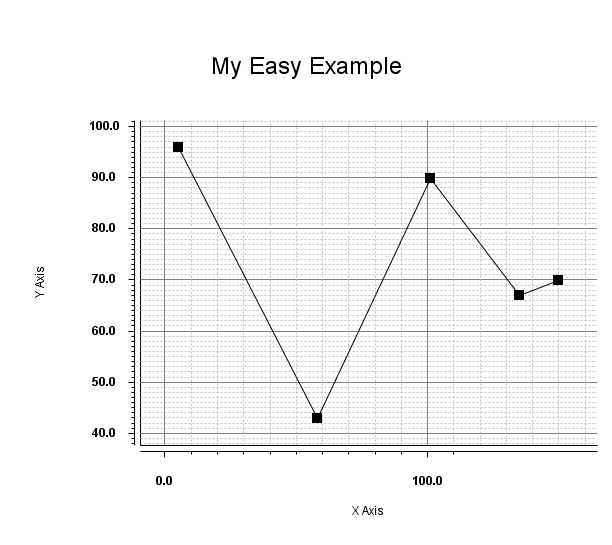
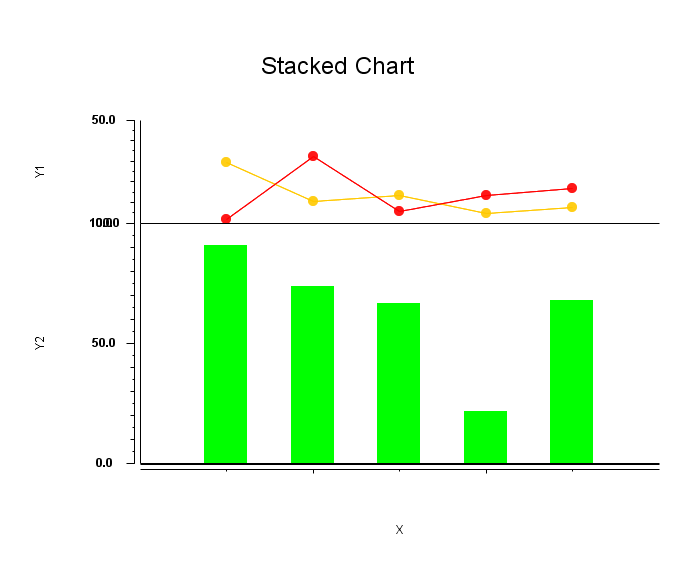
test stacked

diff --git a/src/test/java/com/bluewalrus/main/test/stacked/TestStackedChart3.java b/src/test/java/com/bluewalrus/main/test/stacked/TestStackedChart3.java
@@ -17,6 +17,8 @@ import com.bluewalrus.chart.draw.GridLine;
 import com.bluewalrus.chart.draw.point.UIPointCandleStick;
 import com.bluewalrus.main.test.ChartTester;
 import com.bluewalrus.main.test.TestDataXY_Scatter;
+import com.bluewalrus.main.test.bar.TestDataBar_2_Simple_negative;
+import com.bluewalrus.main.test.bar.TestDataBar_5_PosNegColor;
 import com.bluewalrus.main.test.math.TestDataXY_SineCurve;
 import com.bluewalrus.scaling.LinearNumericalAxisScalingX;
 import com.bluewalrus.scaling.LinearNumericalAxisScalingY;
@@ -27,10 +29,10 @@ public class TestStackedChart3 extends ChartTester {
 		//xAxis needs to be shared
 		XAxis xAxis = new XAxis(new LinearNumericalAxisScalingX(), "X");
 		xAxis.axisScaling.setMinValue(0);
-		xAxis.axisScaling.setMaxValue(400);
+		xAxis.axisScaling.setMaxValue(100);
 		
 		ArrayList<XYChart> charts = new ArrayList<XYChart>();
-		charts.add(getCandleChart(xAxis));
+		charts.add(getTopChart(xAxis));
 		charts.add(getScatterChart(xAxis));
 		charts.add(getBarChart(xAxis));
 		
@@ -45,7 +47,14 @@ public class TestStackedChart3 extends ChartTester {
 		
 		return stackedXYChart;
 	}
-	
+	public XYChart getTopChart(XAxis xAxis) {
+		
+		
+		XYChart xy = (XYChart)new TestDataBar_5_PosNegColor().getChart();
+		xy.xAxis = xAxis;
+		return xy;
+
+	}
 	
 	public XYChart getBarChart(XAxis xAxis) {
 		

diff --git a/src/test/java/com/bluewalrus/main/GenerateShowcase.java b/src/test/java/com/bluewalrus/main/GenerateShowcase.java
@@ -1,13 +1,9 @@
 package com.bluewalrus.main;
 
-import java.util.ArrayList;
-
-import com.bluewalrus.chart.Chart;
-import com.bluewalrus.chart.XYChart;
-import com.bluewalrus.main.test.TestDataXY_Boxplot;
 import com.bluewalrus.main.test.bar.TestDataBar_1_Simple;
 import com.bluewalrus.main.test.bar.TestDataBar_4_GradientColor;
-import com.bluewalrus.main.test.bar.TestDataBar_5_PosNegColor;
+import com.bluewalrus.main.test.stacked.TestStackedChart2;
+import com.bluewalrus.main.test.stacked.TestStackedChart3;
 
 public class GenerateShowcase {
 
@@ -19,10 +15,17 @@ public class GenerateShowcase {
     	
 //    	new TestDataXY_Boxplot().createImageAndTextFile();
     	new TestDataBar_1_Simple().createImageAndTextFile();
-//    	new TestDataBar_4_GradientColor().createImageAndTextFile();
+    	new TestDataBar_4_GradientColor().createImageAndTextFile();
 //    	new TestDataBar_5_PosNegColor().createImageAndTextFile();
 //    	new TestDataBar_.createImageAndTextFile();
 //    	new TestDataBar_1_Simple().createImageAndTextFile();
+
+    	
+    	//these two stacked
+    	new TestStackedChart2().createImageAndTextFile();
+    	new TestStackedChart3().createImageAndTextFile();
+
+    	
 
     }
 

diff --git a/src/main/java/com/bluewalrus/chart/draw/point/UIPointMultiBarSideBySide.java b/src/main/java/com/bluewalrus/chart/draw/point/UIPointMultiBarSideBySide.java
@@ -22,6 +22,12 @@ public class UIPointMultiBarSideBySide extends UIPointAbstractMultiBar{
 	
 	public UIPointMultiBarSideBySide() {
 		super(Color.BLACK); //unimportant, never used.
+//		barWidthPercent = 90;
+	}
+
+	public UIPointMultiBarSideBySide(int totalBarWidthPercent) {
+		super(Color.BLACK); //unimportant, never used.
+		barWidthPercent = totalBarWidthPercent;
 	}
 
 	public void draw(Graphics2D g, Point point, Point lastPoint, DataPoint dataPoint, XYFactor xyFactor, XYChart chart, int pixBtnFirst2Pts) {
@@ -35,7 +41,17 @@ public class UIPointMultiBarSideBySide extends UIPointAbstractMultiBar{
 
         shift = 0;
         
+        int distanceBetweenXPoints = 40;
+        if (lastPoint != null) {
+            distanceBetweenXPoints = lastPoint.x - point.x;
+        	
+        }
+        
+        
         int totalWidthOfBars = multiBarDataPoint.bars.size() * pointDiffWidth;
+        
+        totalWidthOfBars = distanceBetweenXPoints;
+        
         
     	/**
     	 * Draw each of the (multi) bars

diff --git a/src/test/java/com/bluewalrus/main/test/math/TestDataXY_SineCurve.java b/src/test/java/com/bluewalrus/main/test/math/TestDataXY_SineCurve.java
@@ -33,14 +33,14 @@ public class TestDataXY_SineCurve extends ChartTester {
 		
 		for (int x = -170; x <= 170; x++) {
 			
-			values.add(new DataPoint(x, (int) (50 * f((x / 100.0) * 2 * Math.PI))));
+			values.add(new DataPoint(x, (int) (50 * sin((x / 100.0) * 2 * Math.PI))));
 		}
 
 		ArrayList<DataPoint> values3 = new ArrayList<DataPoint>();
 		
 		for (int x = -170; x <= 170; x++) {
 			
-			DataPoint dp = new DataPoint(x, (int) (50 * gCos((x / 100.0) * 2
+			DataPoint dp = new DataPoint(x, (int) (50 * cos((x*10 / 100.0) * 2
 					* Math.PI)));
 			
 			System.out.println("dp = " + dp);
@@ -74,11 +74,11 @@ public class TestDataXY_SineCurve extends ChartTester {
 		return lineChart;
 	}
 
-	double f(double x) {
+	double sin(double x) {
 		return Math.sin(x);
 	}
 
-	double gCos(double y) {
+	double cos(double y) {
 		return Math.cos(y);
 	}
 

diff --git a/src/test/java/com/bluewalrus/main/test/bar/TestDataBar_MultiBar_SideBySide.java b/src/test/java/com/bluewalrus/main/test/bar/TestDataBar_MultiBar_SideBySide.java
@@ -55,11 +55,11 @@ public class TestDataBar_MultiBar_SideBySide extends ChartTester {
         
         ArrayList<XYDataSeries> xySeriesList = new ArrayList<XYDataSeries>();
 
-        XYDataSeries series = new XYDataSeries(multiBarList, new UIPointMultiBarSideBySide(), null, "1994");
+        XYDataSeries series = new XYDataSeries(multiBarList, new UIPointMultiBarSideBySide(70), null, "1994");
 
         xySeriesList.add(series);
         
-        XYChart chart = new XYChart("Side by Side", "Year", "y", xySeriesList);
+        XYChart chart = new XYChart("Side by Side", "Year", "Percent Taxed", xySeriesList);
         
         return chart;
 

diff --git a/src/test/java/com/bluewalrus/main/test/bar/TestDataBar_5_PosNegColor.java b/src/test/java/com/bluewalrus/main/test/bar/TestDataBar_5_PosNegColor.java
@@ -35,6 +35,7 @@ public class TestDataBar_5_PosNegColor extends ChartTester {
 		barSeries.add(new DataPointBar("w", 3));
 		barSeries.add(new DataPointBar("x", 14));
 		barSeries.add(new DataPointBar("z", 41));
+
 		
 		BarDisplayOptions barDisplayOptions = new BarDisplayOptions();
 		

diff --git a/src/main/java/com/bluewalrus/chart/draw/point/UIPointAbstractBar.java b/src/main/java/com/bluewalrus/chart/draw/point/UIPointAbstractBar.java
@@ -8,7 +8,7 @@ import com.bluewalrus.chart.XYChart;
 
 public abstract class UIPointAbstractBar extends UIPointComplexXY {
 
-    int pointDiffWidth = 10;
+    int pointDiffWidth = 15;
     double barWidthPercent = 0;
     
     public UIPointAbstractBar() {
